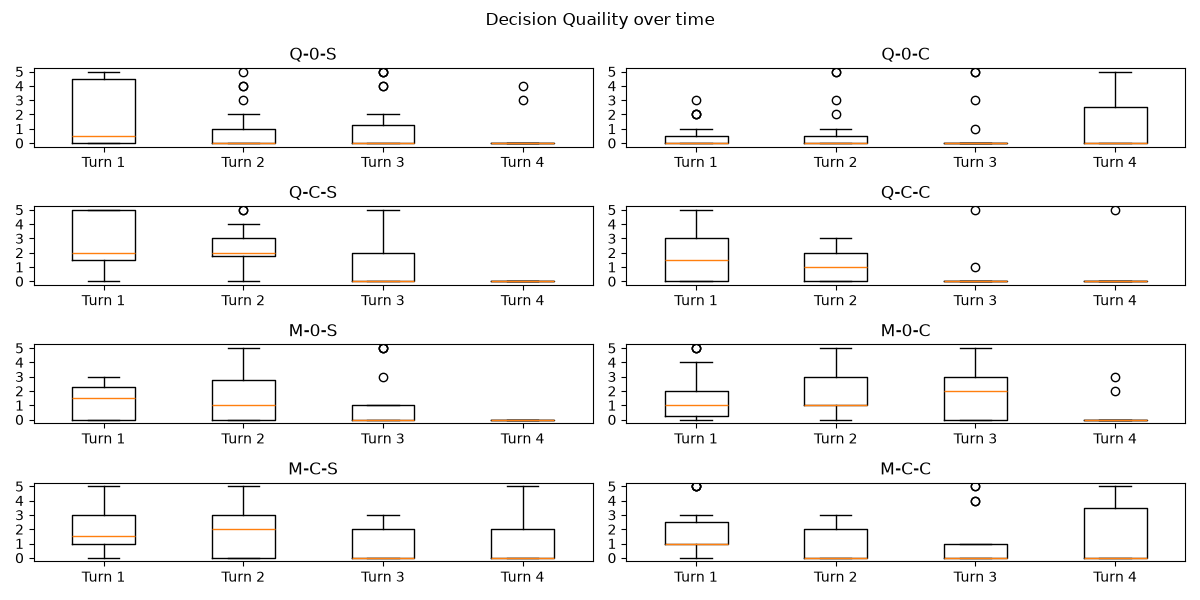
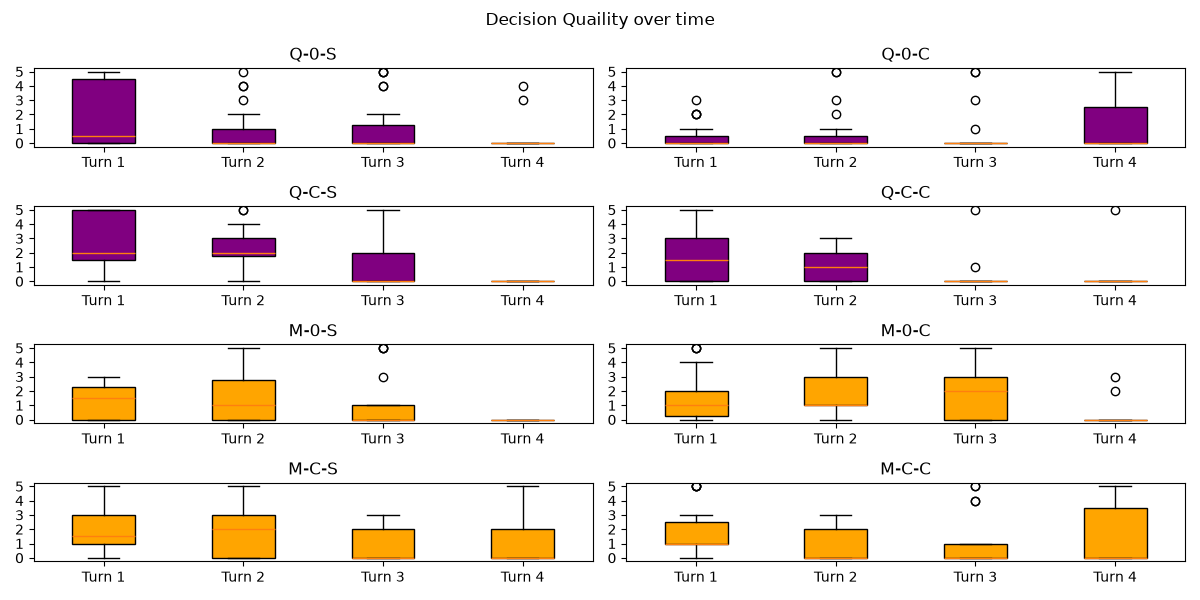
Added colour to dq over time graph

diff --git a/quality_over_turn.py b/quality_over_turn.py
@@ -24,18 +24,18 @@ fig, ax = plt.subplots(figsize=(12,6), ncols=2, nrows=4)
 labels = ["Turn 1", "Turn 2", "Turn 3", "Turn 4"]
 
 # Row 1
-ax[0,0].boxplot([df_cleaned_reasoning_dq.loc[(df_cleaned_reasoning_dq["Scenario"] == "Simple") & (df_cleaned_reasoning_dq["Strategy"] == "Zero") & (df_cleaned_reasoning_dq["Turn"] == 1)]["Decision Quality"], df_cleaned_reasoning_dq.loc[(df_cleaned_reasoning_dq["Scenario"] == "Simple") & (df_cleaned_reasoning_dq["Strategy"] == "Zero") & (df_cleaned_reasoning_dq["Turn"] == 2)]["Decision Quality"], df_cleaned_reasoning_dq.loc[(df_cleaned_reasoning_dq["Scenario"] == "Simple") & (df_cleaned_reasoning_dq["Strategy"] == "Zero") & (df_cleaned_reasoning_dq["Turn"] == 3)]["Decision Quality"], df_cleaned_reasoning_dq.loc[(df_cleaned_reasoning_dq["Scenario"] == "Simple") & (df_cleaned_reasoning_dq["Strategy"] == "Zero") & (df_cleaned_reasoning_dq["Turn"] == 4)]["Decision Quality"]], tick_labels=labels)
-ax[0,1].boxplot([df_cleaned_reasoning_dq.loc[(df_cleaned_reasoning_dq["Scenario"] == "Complex") & (df_cleaned_reasoning_dq["Strategy"] == "Zero") & (df_cleaned_reasoning_dq["Turn"] == 1)]["Decision Quality"], df_cleaned_reasoning_dq.loc[(df_cleaned_reasoning_dq["Scenario"] == "Complex") & (df_cleaned_reasoning_dq["Strategy"] == "Zero") & (df_cleaned_reasoning_dq["Turn"] == 2)]["Decision Quality"], df_cleaned_reasoning_dq.loc[(df_cleaned_reasoning_dq["Scenario"] == "Complex") & (df_cleaned_reasoning_dq["Strategy"] == "Zero") & (df_cleaned_reasoning_dq["Turn"] == 3)]["Decision Quality"], df_cleaned_reasoning_dq.loc[(df_cleaned_reasoning_dq["Scenario"] == "Complex") & (df_cleaned_reasoning_dq["Strategy"] == "Zero") & (df_cleaned_reasoning_dq["Turn"] == 4)]["Decision Quality"]], tick_labels=labels)
+ax1 = ax[0,0].boxplot([df_cleaned_reasoning_dq.loc[(df_cleaned_reasoning_dq["Scenario"] == "Simple") & (df_cleaned_reasoning_dq["Strategy"] == "Zero") & (df_cleaned_reasoning_dq["Turn"] == 1)]["Decision Quality"], df_cleaned_reasoning_dq.loc[(df_cleaned_reasoning_dq["Scenario"] == "Simple") & (df_cleaned_reasoning_dq["Strategy"] == "Zero") & (df_cleaned_reasoning_dq["Turn"] == 2)]["Decision Quality"], df_cleaned_reasoning_dq.loc[(df_cleaned_reasoning_dq["Scenario"] == "Simple") & (df_cleaned_reasoning_dq["Strategy"] == "Zero") & (df_cleaned_reasoning_dq["Turn"] == 3)]["Decision Quality"], df_cleaned_reasoning_dq.loc[(df_cleaned_reasoning_dq["Scenario"] == "Simple") & (df_cleaned_reasoning_dq["Strategy"] == "Zero") & (df_cleaned_reasoning_dq["Turn"] == 4)]["Decision Quality"]], tick_labels=labels, patch_artist=True)
+ax2 = ax[0,1].boxplot([df_cleaned_reasoning_dq.loc[(df_cleaned_reasoning_dq["Scenario"] == "Complex") & (df_cleaned_reasoning_dq["Strategy"] == "Zero") & (df_cleaned_reasoning_dq["Turn"] == 1)]["Decision Quality"], df_cleaned_reasoning_dq.loc[(df_cleaned_reasoning_dq["Scenario"] == "Complex") & (df_cleaned_reasoning_dq["Strategy"] == "Zero") & (df_cleaned_reasoning_dq["Turn"] == 2)]["Decision Quality"], df_cleaned_reasoning_dq.loc[(df_cleaned_reasoning_dq["Scenario"] == "Complex") & (df_cleaned_reasoning_dq["Strategy"] == "Zero") & (df_cleaned_reasoning_dq["Turn"] == 3)]["Decision Quality"], df_cleaned_reasoning_dq.loc[(df_cleaned_reasoning_dq["Scenario"] == "Complex") & (df_cleaned_reasoning_dq["Strategy"] == "Zero") & (df_cleaned_reasoning_dq["Turn"] == 4)]["Decision Quality"]], tick_labels=labels, patch_artist=True)
 # Row 2
-ax[1,0].boxplot([df_cleaned_reasoning_dq.loc[(df_cleaned_reasoning_dq["Scenario"] == "Simple") & (df_cleaned_reasoning_dq["Strategy"] == "Context") & (df_cleaned_reasoning_dq["Turn"] == 1)]["Decision Quality"], df_cleaned_reasoning_dq.loc[(df_cleaned_reasoning_dq["Scenario"] == "Simple") & (df_cleaned_reasoning_dq["Strategy"] == "Context") & (df_cleaned_reasoning_dq["Turn"] == 2)]["Decision Quality"], df_cleaned_reasoning_dq.loc[(df_cleaned_reasoning_dq["Scenario"] == "Simple") & (df_cleaned_reasoning_dq["Strategy"] == "Context") & (df_cleaned_reasoning_dq["Turn"] == 3)]["Decision Quality"], df_cleaned_reasoning_dq.loc[(df_cleaned_reasoning_dq["Scenario"] == "Simple") & (df_cleaned_reasoning_dq["Strategy"] == "Context") & (df_cleaned_reasoning_dq["Turn"] == 4)]["Decision Quality"]], tick_labels=labels)
-ax[1,1].boxplot([df_cleaned_reasoning_dq.loc[(df_cleaned_reasoning_dq["Scenario"] == "Complex") & (df_cleaned_reasoning_dq["Strategy"] == "Context") & (df_cleaned_reasoning_dq["Turn"] == 1)]["Decision Quality"], df_cleaned_reasoning_dq.loc[(df_cleaned_reasoning_dq["Scenario"] == "Complex") & (df_cleaned_reasoning_dq["Strategy"] == "Context") & (df_cleaned_reasoning_dq["Turn"] == 2)]["Decision Quality"], df_cleaned_reasoning_dq.loc[(df_cleaned_reasoning_dq["Scenario"] == "Complex") & (df_cleaned_reasoning_dq["Strategy"] == "Context") & (df_cleaned_reasoning_dq["Turn"] == 3)]["Decision Quality"], df_cleaned_reasoning_dq.loc[(df_cleaned_reasoning_dq["Scenario"] == "Complex") & (df_cleaned_reasoning_dq["Strategy"] == "Context") & (df_cleaned_reasoning_dq["Turn"] == 4)]["Decision Quality"]], tick_labels=labels)
+ax3 = ax[1,0].boxplot([df_cleaned_reasoning_dq.loc[(df_cleaned_reasoning_dq["Scenario"] == "Simple") & (df_cleaned_reasoning_dq["Strategy"] == "Context") & (df_cleaned_reasoning_dq["Turn"] == 1)]["Decision Quality"], df_cleaned_reasoning_dq.loc[(df_cleaned_reasoning_dq["Scenario"] == "Simple") & (df_cleaned_reasoning_dq["Strategy"] == "Context") & (df_cleaned_reasoning_dq["Turn"] == 2)]["Decision Quality"], df_cleaned_reasoning_dq.loc[(df_cleaned_reasoning_dq["Scenario"] == "Simple") & (df_cleaned_reasoning_dq["Strategy"] == "Context") & (df_cleaned_reasoning_dq["Turn"] == 3)]["Decision Quality"], df_cleaned_reasoning_dq.loc[(df_cleaned_reasoning_dq["Scenario"] == "Simple") & (df_cleaned_reasoning_dq["Strategy"] == "Context") & (df_cleaned_reasoning_dq["Turn"] == 4)]["Decision Quality"]], tick_labels=labels, patch_artist=True)
+ax4 = ax[1,1].boxplot([df_cleaned_reasoning_dq.loc[(df_cleaned_reasoning_dq["Scenario"] == "Complex") & (df_cleaned_reasoning_dq["Strategy"] == "Context") & (df_cleaned_reasoning_dq["Turn"] == 1)]["Decision Quality"], df_cleaned_reasoning_dq.loc[(df_cleaned_reasoning_dq["Scenario"] == "Complex") & (df_cleaned_reasoning_dq["Strategy"] == "Context") & (df_cleaned_reasoning_dq["Turn"] == 2)]["Decision Quality"], df_cleaned_reasoning_dq.loc[(df_cleaned_reasoning_dq["Scenario"] == "Complex") & (df_cleaned_reasoning_dq["Strategy"] == "Context") & (df_cleaned_reasoning_dq["Turn"] == 3)]["Decision Quality"], df_cleaned_reasoning_dq.loc[(df_cleaned_reasoning_dq["Scenario"] == "Complex") & (df_cleaned_reasoning_dq["Strategy"] == "Context") & (df_cleaned_reasoning_dq["Turn"] == 4)]["Decision Quality"]], tick_labels=labels, patch_artist=True)
 
-# Row 1
-ax[2,0].boxplot([df_cleaned_non_reasoning_dq.loc[(df_cleaned_non_reasoning_dq["Scenario"] == "Simple") & (df_cleaned_non_reasoning_dq["Strategy"] == "Zero") & (df_cleaned_non_reasoning_dq["Turn"] == 1)]["Decision Quality"], df_cleaned_non_reasoning_dq.loc[(df_cleaned_non_reasoning_dq["Scenario"] == "Simple") & (df_cleaned_non_reasoning_dq["Strategy"] == "Zero") & (df_cleaned_non_reasoning_dq["Turn"] == 2)]["Decision Quality"], df_cleaned_non_reasoning_dq.loc[(df_cleaned_non_reasoning_dq["Scenario"] == "Simple") & (df_cleaned_non_reasoning_dq["Strategy"] == "Zero") & (df_cleaned_non_reasoning_dq["Turn"] == 3)]["Decision Quality"], df_cleaned_non_reasoning_dq.loc[(df_cleaned_non_reasoning_dq["Scenario"] == "Simple") & (df_cleaned_non_reasoning_dq["Strategy"] == "Zero") & (df_cleaned_non_reasoning_dq["Turn"] == 4)]["Decision Quality"]], tick_labels=labels)
-ax[2,1].boxplot([df_cleaned_non_reasoning_dq.loc[(df_cleaned_non_reasoning_dq["Scenario"] == "Complex") & (df_cleaned_non_reasoning_dq["Strategy"] == "Zero") & (df_cleaned_non_reasoning_dq["Turn"] == 1)]["Decision Quality"], df_cleaned_non_reasoning_dq.loc[(df_cleaned_non_reasoning_dq["Scenario"] == "Complex") & (df_cleaned_non_reasoning_dq["Strategy"] == "Zero") & (df_cleaned_non_reasoning_dq["Turn"] == 2)]["Decision Quality"], df_cleaned_non_reasoning_dq.loc[(df_cleaned_non_reasoning_dq["Scenario"] == "Complex") & (df_cleaned_non_reasoning_dq["Strategy"] == "Zero") & (df_cleaned_non_reasoning_dq["Turn"] == 3)]["Decision Quality"], df_cleaned_non_reasoning_dq.loc[(df_cleaned_non_reasoning_dq["Scenario"] == "Complex") & (df_cleaned_non_reasoning_dq["Strategy"] == "Zero") & (df_cleaned_non_reasoning_dq["Turn"] == 4)]["Decision Quality"]], tick_labels=labels)
-# Row 2
-ax[3,0].boxplot([df_cleaned_non_reasoning_dq.loc[(df_cleaned_non_reasoning_dq["Scenario"] == "Simple") & (df_cleaned_non_reasoning_dq["Strategy"] == "Context") & (df_cleaned_non_reasoning_dq["Turn"] == 1)]["Decision Quality"], df_cleaned_non_reasoning_dq.loc[(df_cleaned_non_reasoning_dq["Scenario"] == "Simple") & (df_cleaned_non_reasoning_dq["Strategy"] == "Context") & (df_cleaned_non_reasoning_dq["Turn"] == 2)]["Decision Quality"], df_cleaned_non_reasoning_dq.loc[(df_cleaned_non_reasoning_dq["Scenario"] == "Simple") & (df_cleaned_non_reasoning_dq["Strategy"] == "Context") & (df_cleaned_non_reasoning_dq["Turn"] == 3)]["Decision Quality"], df_cleaned_non_reasoning_dq.loc[(df_cleaned_non_reasoning_dq["Scenario"] == "Simple") & (df_cleaned_non_reasoning_dq["Strategy"] == "Context") & (df_cleaned_non_reasoning_dq["Turn"] == 4)]["Decision Quality"]], tick_labels=labels)
-ax[3,1].boxplot([df_cleaned_non_reasoning_dq.loc[(df_cleaned_non_reasoning_dq["Scenario"] == "Complex") & (df_cleaned_non_reasoning_dq["Strategy"] == "Context") & (df_cleaned_non_reasoning_dq["Turn"] == 1)]["Decision Quality"], df_cleaned_non_reasoning_dq.loc[(df_cleaned_non_reasoning_dq["Scenario"] == "Complex") & (df_cleaned_non_reasoning_dq["Strategy"] == "Context") & (df_cleaned_non_reasoning_dq["Turn"] == 2)]["Decision Quality"], df_cleaned_non_reasoning_dq.loc[(df_cleaned_non_reasoning_dq["Scenario"] == "Complex") & (df_cleaned_non_reasoning_dq["Strategy"] == "Context") & (df_cleaned_non_reasoning_dq["Turn"] == 3)]["Decision Quality"], df_cleaned_non_reasoning_dq.loc[(df_cleaned_non_reasoning_dq["Scenario"] == "Complex") & (df_cleaned_non_reasoning_dq["Strategy"] == "Context") & (df_cleaned_non_reasoning_dq["Turn"] == 4)]["Decision Quality"]], tick_labels=labels)
+# Row 3
+ax5 = ax[2,0].boxplot([df_cleaned_non_reasoning_dq.loc[(df_cleaned_non_reasoning_dq["Scenario"] == "Simple") & (df_cleaned_non_reasoning_dq["Strategy"] == "Zero") & (df_cleaned_non_reasoning_dq["Turn"] == 1)]["Decision Quality"], df_cleaned_non_reasoning_dq.loc[(df_cleaned_non_reasoning_dq["Scenario"] == "Simple") & (df_cleaned_non_reasoning_dq["Strategy"] == "Zero") & (df_cleaned_non_reasoning_dq["Turn"] == 2)]["Decision Quality"], df_cleaned_non_reasoning_dq.loc[(df_cleaned_non_reasoning_dq["Scenario"] == "Simple") & (df_cleaned_non_reasoning_dq["Strategy"] == "Zero") & (df_cleaned_non_reasoning_dq["Turn"] == 3)]["Decision Quality"], df_cleaned_non_reasoning_dq.loc[(df_cleaned_non_reasoning_dq["Scenario"] == "Simple") & (df_cleaned_non_reasoning_dq["Strategy"] == "Zero") & (df_cleaned_non_reasoning_dq["Turn"] == 4)]["Decision Quality"]], tick_labels=labels, patch_artist=True)
+ax6 = ax[2,1].boxplot([df_cleaned_non_reasoning_dq.loc[(df_cleaned_non_reasoning_dq["Scenario"] == "Complex") & (df_cleaned_non_reasoning_dq["Strategy"] == "Zero") & (df_cleaned_non_reasoning_dq["Turn"] == 1)]["Decision Quality"], df_cleaned_non_reasoning_dq.loc[(df_cleaned_non_reasoning_dq["Scenario"] == "Complex") & (df_cleaned_non_reasoning_dq["Strategy"] == "Zero") & (df_cleaned_non_reasoning_dq["Turn"] == 2)]["Decision Quality"], df_cleaned_non_reasoning_dq.loc[(df_cleaned_non_reasoning_dq["Scenario"] == "Complex") & (df_cleaned_non_reasoning_dq["Strategy"] == "Zero") & (df_cleaned_non_reasoning_dq["Turn"] == 3)]["Decision Quality"], df_cleaned_non_reasoning_dq.loc[(df_cleaned_non_reasoning_dq["Scenario"] == "Complex") & (df_cleaned_non_reasoning_dq["Strategy"] == "Zero") & (df_cleaned_non_reasoning_dq["Turn"] == 4)]["Decision Quality"]], tick_labels=labels, patch_artist=True)
+# Row 4
+ax7 = ax[3,0].boxplot([df_cleaned_non_reasoning_dq.loc[(df_cleaned_non_reasoning_dq["Scenario"] == "Simple") & (df_cleaned_non_reasoning_dq["Strategy"] == "Context") & (df_cleaned_non_reasoning_dq["Turn"] == 1)]["Decision Quality"], df_cleaned_non_reasoning_dq.loc[(df_cleaned_non_reasoning_dq["Scenario"] == "Simple") & (df_cleaned_non_reasoning_dq["Strategy"] == "Context") & (df_cleaned_non_reasoning_dq["Turn"] == 2)]["Decision Quality"], df_cleaned_non_reasoning_dq.loc[(df_cleaned_non_reasoning_dq["Scenario"] == "Simple") & (df_cleaned_non_reasoning_dq["Strategy"] == "Context") & (df_cleaned_non_reasoning_dq["Turn"] == 3)]["Decision Quality"], df_cleaned_non_reasoning_dq.loc[(df_cleaned_non_reasoning_dq["Scenario"] == "Simple") & (df_cleaned_non_reasoning_dq["Strategy"] == "Context") & (df_cleaned_non_reasoning_dq["Turn"] == 4)]["Decision Quality"]], tick_labels=labels, patch_artist=True)
+ax8 = ax[3,1].boxplot([df_cleaned_non_reasoning_dq.loc[(df_cleaned_non_reasoning_dq["Scenario"] == "Complex") & (df_cleaned_non_reasoning_dq["Strategy"] == "Context") & (df_cleaned_non_reasoning_dq["Turn"] == 1)]["Decision Quality"], df_cleaned_non_reasoning_dq.loc[(df_cleaned_non_reasoning_dq["Scenario"] == "Complex") & (df_cleaned_non_reasoning_dq["Strategy"] == "Context") & (df_cleaned_non_reasoning_dq["Turn"] == 2)]["Decision Quality"], df_cleaned_non_reasoning_dq.loc[(df_cleaned_non_reasoning_dq["Scenario"] == "Complex") & (df_cleaned_non_reasoning_dq["Strategy"] == "Context") & (df_cleaned_non_reasoning_dq["Turn"] == 3)]["Decision Quality"], df_cleaned_non_reasoning_dq.loc[(df_cleaned_non_reasoning_dq["Scenario"] == "Complex") & (df_cleaned_non_reasoning_dq["Strategy"] == "Context") & (df_cleaned_non_reasoning_dq["Turn"] == 4)]["Decision Quality"]], tick_labels=labels, patch_artist=True)
 
 ax[0,0].set_title("Q-0-S")
 ax[0,1].set_title("Q-0-C")
@@ -55,6 +55,18 @@ ax[2,0].set_yticks([0,1,2,3,4,5])
 ax[2,1].set_yticks([0,1,2,3,4,5])
 ax[3,0].set_yticks([0,1,2,3,4,5])
 ax[3,1].set_yticks([0,1,2,3,4,5])
+
+
+qwen = ["purple", "purple", "purple", "purple"]
+mistral = ["orange", "orange", "orange", "orange"]
+
+for plot in (ax1, ax2, ax3, ax4):
+    for patch, colour in zip(plot["boxes"], qwen):
+        patch.set_facecolor(colour)
+
+for plot in (ax5, ax6, ax7, ax8):
+    for patch, colour in zip(plot["boxes"], mistral):
+        patch.set_facecolor(colour)
 
 
 plt.suptitle("Decision Quaility over time", x=0.5, ha='center') 
